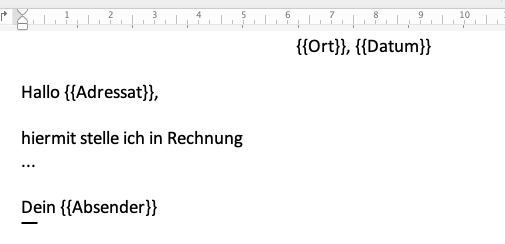
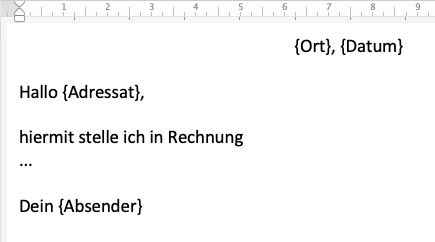
some changes

diff --git a/Word/word_template.py b/Word/word_template.py
@@ -13,10 +13,15 @@ datum = now.strftime("%d.%m.%Y")
 ort = "Frickingen"
 
 # Dictionary mit Muster und Variablen
-template_dict = {"{{Adressat}}": adressat, "{{Absender}}": absender, "{{Datum}}": datum, "{{Ort}}": ort}
+template_dict = {
+    "{Adressat}": adressat,
+    "{Absender}": absender,
+    "{Datum}": datum,
+    "{Ort}": ort,
+}
 
 # Einlesen des Templates
-doc = docx.Document('template.docx')
+doc = docx.Document("template.docx")
 
 # Iteration über alle Absätze
 for para in doc.paragraphs:
@@ -25,6 +30,4 @@ for para in doc.paragraphs:
 
 # Abspeichern unter neuem Namen
 doc.save("rechnung.docx")
-
-
 

diff --git a/Word/ARBEITEN_MIT_WORD.md b/Word/ARBEITEN_MIT_WORD.md
@@ -267,7 +267,7 @@ Es enthält vier "Felder" (Muster): {{Ort}}, {{Datum}}, {{Adressat}} und {{Absen
 Unser Skript soll nun diese Felder ersetzen mit bestimmten Daten und als eigenes Word-Dokument abspeichern. Es gibt mehrere Möglichkeiten, diesen Workflow zu programmieren. Das folgende Skript definiert vier Variablen `ort, datum, absender, adressat` 
 . Sie enthalten die Strings, die für die Muster im Template-File eingesetzt werden sollen. Das Dictionary `template_dict` definiert die Zuordnung:
 ```python
-template_dict = {"{{Adressat}}": adressat, "{{Absender}}": absender, "{{Datum}}": datum, "{{Ort}}": ort}
+template_dict = {"{Adressat}": adressat, "{Absender}": absender, "{Datum}": datum, "{Ort}": ort}
 ```
 Jedes Element dieses Dictionaries enthält ein Schlüssel-Wert-Paar aus Muster und zugehöriger Variable.
 
@@ -290,7 +290,7 @@ datum = now.strftime("%d.%m.%Y")
 ort = "Frickingen"
 
 # Dictionary mit Muster und Variablen
-template_dict = {"{{Adressat}}": adressat, "{{Absender}}": absender, "{{Datum}}": datum, "{{Ort}}": ort}
+template_dict = {"{Adressat}": adressat, "{Absender}": absender, "{Datum}": datum, "{Ort}": ort}
 
 # Einlesen des Templates
 doc = docx.Document('template.docx')
@@ -303,7 +303,7 @@ for para in doc.paragraphs:
 # Abspeichern unter neuem Namen
 doc.save("rechnung.docx")
 ```
-Man hätte die Suche/Ersetze-Aktion auch mit vier if-Abfragen `if "{{Ort}}" in para.text: para.text = str.replace(...)` usw. lösen können, aber das wäre deutlich aufwendiger.
+Man hätte die Suche/Ersetze-Aktion auch mit vier if-Abfragen `if "{Ort}" in para.text: para.text = str.replace(...)` usw. lösen können, aber das wäre deutlich aufwendiger.
 
 _Hinweis_: Das Python-Standardmodeul _datetime_ liefert das gleichnameige Objekt `datetime`, dessen Methode `now()` aktuelle Uhrzeit und aktuelles Datum in mehreren Variablen (d, m, Y usw.) liefert. Die Methode `strftime()` macht daraus einen formatierten String.  
 
